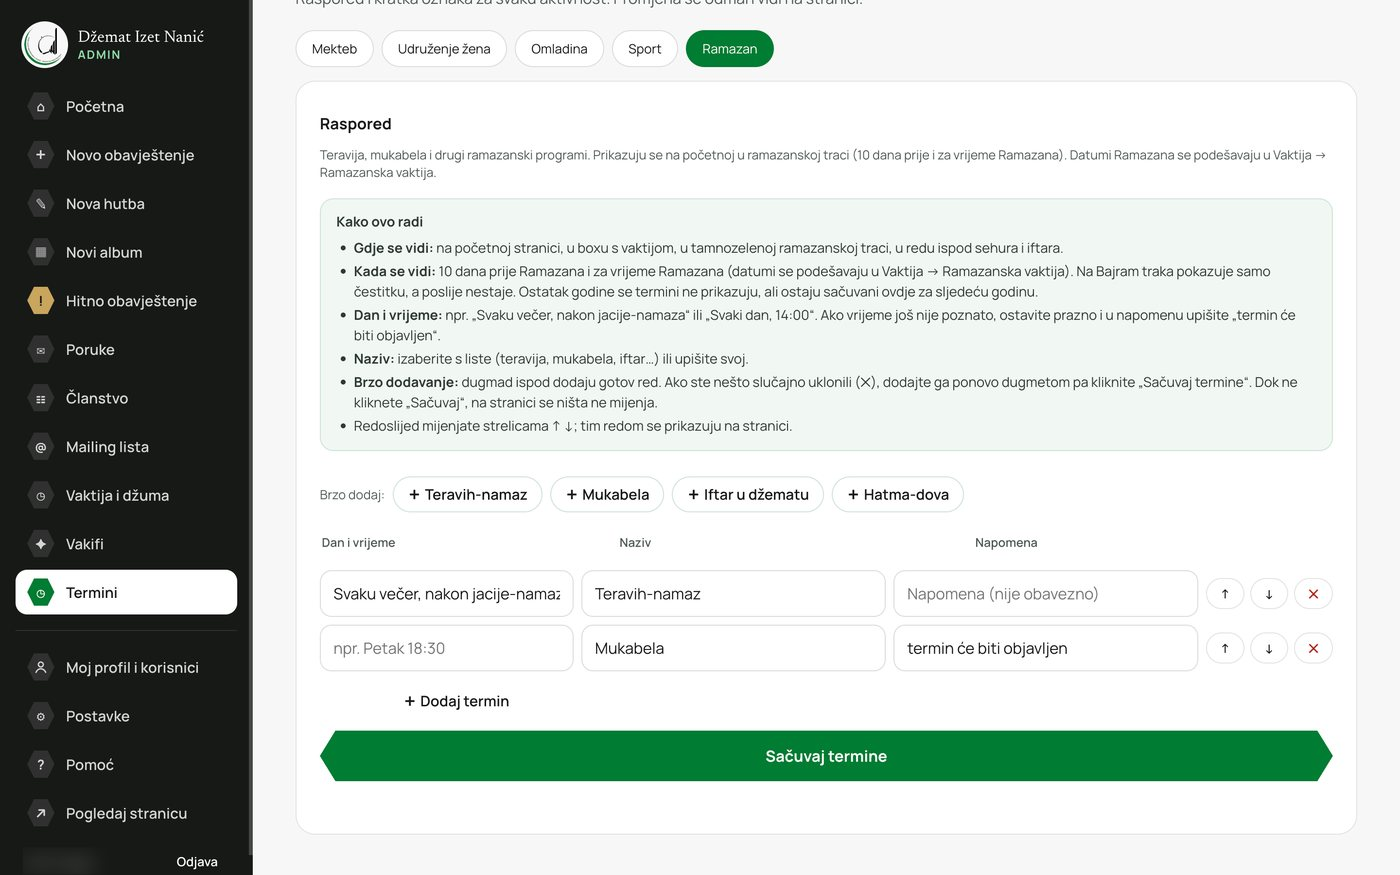
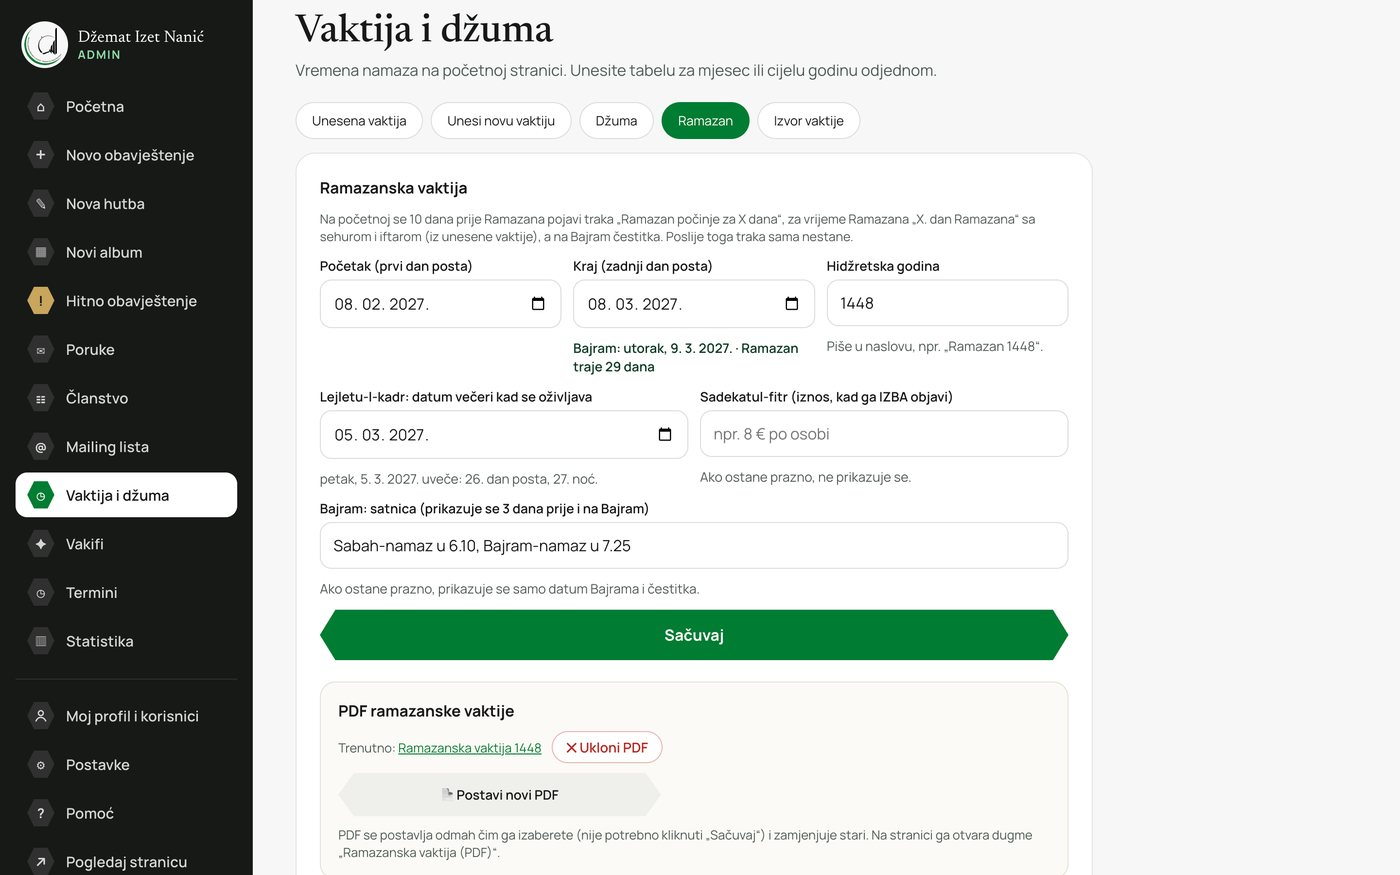
Džemati: statistics feature, new vaktija and Ramadan screenshots
Claude-Session: https://claude.ai/code/session_01TdyyJ7gY5KdEG8XDSg17po

diff --git a/public/en/dzemati/index.html b/public/en/dzemati/index.html
@@ -202,7 +202,7 @@
 <a class="link-arrow" href="https://dzematizetnanic.com/" target="_blank" rel="noopener">See it on the live site <svg width="16" height="16" viewBox="0 0 16 16" fill="none" aria-hidden="true"><path d="M3 8h10M9 4l4 4-4 4" stroke="currentColor" stroke-width="1.8" stroke-linecap="round" stroke-linejoin="round"/></svg></a>      </div>
       <div class="feature-shot">
         <div class="browser"><div class="browser-bar"><i></i><i></i><i></i><span>admin</span></div>
-          <img src="../../assets/img/dz/admin-vaktija.jpg" alt="Admin: importing prayer times from a PDF and Jumu’ah time" width="1400" height="875" loading="lazy"></div>
+          <img src="../../assets/img/dz/admin-vaktija.jpg" alt="Admin: importing prayer times from a PDF" width="1400" height="875" loading="lazy"></div>
       </div>
     </article>
     <article class="feature flip">
@@ -224,10 +224,21 @@
       </div>
       <div class="feature-shot">
         <div class="browser"><div class="browser-bar"><i></i><i></i><i></i><span>admin</span></div>
-          <img src="../../assets/img/dz/admin-ramazan.jpg" alt="Admin: Ramadan programme with taraweeh and mukabele" width="1400" height="875" loading="lazy"></div>
+          <img src="../../assets/img/dz/admin-ramazan.jpg" alt="Admin: Ramadan timetable, Eid and Laylat al-Qadr" width="1400" height="875" loading="lazy"></div>
       </div>
     </article>
     <article class="feature flip">
+      <div class="feature-copy">
+        <p class="tag">STATISTICS</p>
+        <h3>See who visits and what they read</h3>
+        <p class="muted">How many people visit and where they come from: WhatsApp, Facebook or Google. Which khutbahs and announcements are read most, how many people downloaded the prayer timetable and how many looked at membership. Everything is counted anonymously, with no cookies and no IP addresses.</p>
+      </div>
+      <div class="feature-shot">
+        <div class="browser"><div class="browser-bar"><i></i><i></i><i></i><span>admin</span></div>
+          <img src="../../assets/img/dz/admin-statistika.jpg" alt="Admin: website visitor statistics" width="1400" height="875" loading="lazy"></div>
+      </div>
+    </article>
+    <article class="feature">
       <div class="feature-copy">
         <p class="tag">USERS</p>
         <h3>Everyone on the committee has their own login</h3>
@@ -238,7 +249,7 @@
           <img src="../../assets/img/dz/admin-korisnici.jpg" alt="Admin: users and roles on the committee" width="1400" height="875" loading="lazy"></div>
       </div>
     </article>
-    <article class="feature">
+    <article class="feature flip">
       <div class="feature-copy">
         <p class="tag">INSTRUCTIONS</p>
         <h3>Instructions are built into the admin</h3>
@@ -281,6 +292,7 @@
     <div class="vt-row"><span><strong>Membership and mailing list</strong><small>Online applications, email notices, import of old lists</small></span><span class="vt-else" data-label="Elsewhere">€120–420 a year</span><span class="vt-us" data-label="With us"><svg width="18" height="18" viewBox="0 0 22 22" fill="none" aria-hidden="true"><circle cx="11" cy="11" r="11" fill="#E56821"/><path d="M6.5 11.2l3 3 6-6.4" stroke="#0A0A22" stroke-width="2" stroke-linecap="round" stroke-linejoin="round"/></svg>included</span></div>
     <div class="vt-row"><span><strong>Prayer times for the whole year</strong><small>Shown on the homepage, Jumu’ah time, and a yearly timetable PDF in your mosque’s design to download</small></span><span class="vt-else" data-label="Elsewhere">extra development</span><span class="vt-us" data-label="With us"><svg width="18" height="18" viewBox="0 0 22 22" fill="none" aria-hidden="true"><circle cx="11" cy="11" r="11" fill="#E56821"/><path d="M6.5 11.2l3 3 6-6.4" stroke="#0A0A22" stroke-width="2" stroke-linecap="round" stroke-linejoin="round"/></svg>included</span></div>
     <div class="vt-row"><span><strong>Ramadan timetable</strong><small>During Ramadan the timetable shows suhoor and iftar by itself, with a Ramadan timetable PDF</small></span><span class="vt-else" data-label="Elsewhere">extra design work</span><span class="vt-us" data-label="With us"><svg width="18" height="18" viewBox="0 0 22 22" fill="none" aria-hidden="true"><circle cx="11" cy="11" r="11" fill="#E56821"/><path d="M6.5 11.2l3 3 6-6.4" stroke="#0A0A22" stroke-width="2" stroke-linecap="round" stroke-linejoin="round"/></svg>included</span></div>
+    <div class="vt-row"><span><strong>Visitor statistics</strong><small>Visits, where people come from, most-read khutbahs and announcements, no cookies</small></span><span class="vt-else" data-label="Elsewhere">paid tools, from about €100 a year</span><span class="vt-us" data-label="With us"><svg width="18" height="18" viewBox="0 0 22 22" fill="none" aria-hidden="true"><circle cx="11" cy="11" r="11" fill="#E56821"/><path d="M6.5 11.2l3 3 6-6.4" stroke="#0A0A22" stroke-width="2" stroke-linecap="round" stroke-linejoin="round"/></svg>included</span></div>
     <div class="vt-row"><span><strong>Two languages</strong><small>Bosnian and the language of your country</small></span><span class="vt-else" data-label="Elsewhere">usually 20–30% on top</span><span class="vt-us" data-label="With us"><svg width="18" height="18" viewBox="0 0 22 22" fill="none" aria-hidden="true"><circle cx="11" cy="11" r="11" fill="#E56821"/><path d="M6.5 11.2l3 3 6-6.4" stroke="#0A0A22" stroke-width="2" stroke-linecap="round" stroke-linejoin="round"/></svg>included</span></div>
     <div class="vt-row"><span><strong>Moving the old site and training</strong><small>Content, photos, members, written guide</small></span><span class="vt-else" data-label="Elsewhere">€60–90 an hour</span><span class="vt-us" data-label="With us"><svg width="18" height="18" viewBox="0 0 22 22" fill="none" aria-hidden="true"><circle cx="11" cy="11" r="11" fill="#E56821"/><path d="M6.5 11.2l3 3 6-6.4" stroke="#0A0A22" stroke-width="2" stroke-linecap="round" stroke-linejoin="round"/></svg>included</span></div>
     <div class="vt-row"><span><strong>12-month guarantee</strong><small>We fix any bugs for free</small></span><span class="vt-else" data-label="Elsewhere">monthly maintenance</span><span class="vt-us" data-label="With us"><svg width="18" height="18" viewBox="0 0 22 22" fill="none" aria-hidden="true"><circle cx="11" cy="11" r="11" fill="#E56821"/><path d="M6.5 11.2l3 3 6-6.4" stroke="#0A0A22" stroke-width="2" stroke-linecap="round" stroke-linejoin="round"/></svg>included</span></div>

diff --git a/public/dzemati/index.html b/public/dzemati/index.html
@@ -204,7 +204,7 @@
 <a class="link-arrow" href="https://dzematizetnanic.com/" target="_blank" rel="noopener">Pogledajte na stranici džemata <svg width="16" height="16" viewBox="0 0 16 16" fill="none" aria-hidden="true"><path d="M3 8h10M9 4l4 4-4 4" stroke="currentColor" stroke-width="1.8" stroke-linecap="round" stroke-linejoin="round"/></svg></a>      </div>
       <div class="feature-shot">
         <div class="browser"><div class="browser-bar"><i></i><i></i><i></i><span>admin</span></div>
-          <img src="../assets/img/dz/admin-vaktija.jpg" alt="Admin: unos vaktije iz PDF-a i vrijeme džume" width="1400" height="875" loading="lazy"></div>
+          <img src="../assets/img/dz/admin-vaktija.jpg" alt="Admin: unos vaktije iz PDF-a" width="1400" height="875" loading="lazy"></div>
       </div>
     </article>
     <article class="feature flip">
@@ -226,10 +226,21 @@
       </div>
       <div class="feature-shot">
         <div class="browser"><div class="browser-bar"><i></i><i></i><i></i><span>admin</span></div>
-          <img src="../assets/img/dz/admin-ramazan.jpg" alt="Admin: ramazanski program s teravijom i mukabelom" width="1400" height="875" loading="lazy"></div>
+          <img src="../assets/img/dz/admin-ramazan.jpg" alt="Admin: ramazanska vaktija, Bajram i Lejletu-l-kadr" width="1400" height="875" loading="lazy"></div>
       </div>
     </article>
     <article class="feature flip">
+      <div class="feature-copy">
+        <p class="tag">STATISTIKA</p>
+        <h3>Vidite ko dolazi i šta čita</h3>
+        <p class="muted">Koliko ljudi posjećuje stranicu i odakle dolaze: WhatsApp, Facebook ili Google. Koje se hutbe i obavještenja najviše čitaju, koliko je ljudi preuzelo vaktiju i koliko ih gleda članarinu. Sve se broji anonimno, bez kolačića i bez IP adresa.</p>
+      </div>
+      <div class="feature-shot">
+        <div class="browser"><div class="browser-bar"><i></i><i></i><i></i><span>admin</span></div>
+          <img src="../assets/img/dz/admin-statistika.jpg" alt="Admin: statistika posjeta stranici" width="1400" height="875" loading="lazy"></div>
+      </div>
+    </article>
+    <article class="feature">
       <div class="feature-copy">
         <p class="tag">KORISNICI</p>
         <h3>Svako iz odbora ima svoj pristup</h3>
@@ -240,7 +251,7 @@
           <img src="../assets/img/dz/admin-korisnici.jpg" alt="Admin: korisnici i uloge u odboru" width="1400" height="875" loading="lazy"></div>
       </div>
     </article>
-    <article class="feature">
+    <article class="feature flip">
       <div class="feature-copy">
         <p class="tag">UPUTSTVA</p>
         <h3>Uputstva su u samom adminu</h3>
@@ -283,6 +294,7 @@
     <div class="vt-row"><span><strong>Članstvo i mailing lista</strong><small>Online prijave, e-mail obavještenja, uvoz starih lista</small></span><span class="vt-else" data-label="Drugdje">120–420 € godišnje</span><span class="vt-us" data-label="Kod nas"><svg width="18" height="18" viewBox="0 0 22 22" fill="none" aria-hidden="true"><circle cx="11" cy="11" r="11" fill="#E56821"/><path d="M6.5 11.2l3 3 6-6.4" stroke="#0A0A22" stroke-width="2" stroke-linecap="round" stroke-linejoin="round"/></svg>uključeno</span></div>
     <div class="vt-row"><span><strong>Vaktija za cijelu godinu</strong><small>Prikaz na početnoj, vrijeme džume i godišnja vaktija u PDF-u, u dizajnu džemata, za preuzimanje</small></span><span class="vt-else" data-label="Drugdje">uz dodatnu programersku izradu</span><span class="vt-us" data-label="Kod nas"><svg width="18" height="18" viewBox="0 0 22 22" fill="none" aria-hidden="true"><circle cx="11" cy="11" r="11" fill="#E56821"/><path d="M6.5 11.2l3 3 6-6.4" stroke="#0A0A22" stroke-width="2" stroke-linecap="round" stroke-linejoin="round"/></svg>uključeno</span></div>
     <div class="vt-row"><span><strong>Ramazanska vaktija</strong><small>Za vrijeme Ramazana vaktija sama prikazuje sehur i iftar, uz ramazansku vaktiju u PDF-u</small></span><span class="vt-else" data-label="Drugdje">uz dodatni dizajn</span><span class="vt-us" data-label="Kod nas"><svg width="18" height="18" viewBox="0 0 22 22" fill="none" aria-hidden="true"><circle cx="11" cy="11" r="11" fill="#E56821"/><path d="M6.5 11.2l3 3 6-6.4" stroke="#0A0A22" stroke-width="2" stroke-linecap="round" stroke-linejoin="round"/></svg>uključeno</span></div>
+    <div class="vt-row"><span><strong>Statistika posjeta</strong><small>Posjete, odakle ljudi dolaze, najčitanije hutbe i obavještenja, bez kolačića</small></span><span class="vt-else" data-label="Drugdje">plaćeni alati, od oko 100 € godišnje</span><span class="vt-us" data-label="Kod nas"><svg width="18" height="18" viewBox="0 0 22 22" fill="none" aria-hidden="true"><circle cx="11" cy="11" r="11" fill="#E56821"/><path d="M6.5 11.2l3 3 6-6.4" stroke="#0A0A22" stroke-width="2" stroke-linecap="round" stroke-linejoin="round"/></svg>uključeno</span></div>
     <div class="vt-row"><span><strong>Dva jezika</strong><small>Bosanski i jezik zemlje u kojoj živite</small></span><span class="vt-else" data-label="Drugdje">obično 20–30 % na cijenu</span><span class="vt-us" data-label="Kod nas"><svg width="18" height="18" viewBox="0 0 22 22" fill="none" aria-hidden="true"><circle cx="11" cy="11" r="11" fill="#E56821"/><path d="M6.5 11.2l3 3 6-6.4" stroke="#0A0A22" stroke-width="2" stroke-linecap="round" stroke-linejoin="round"/></svg>uključeno</span></div>
     <div class="vt-row"><span><strong>Prenos sa stare stranice i obuka odbora</strong><small>Sadržaj, fotografije, članovi, pisane upute</small></span><span class="vt-else" data-label="Drugdje">60–90 € po satu</span><span class="vt-us" data-label="Kod nas"><svg width="18" height="18" viewBox="0 0 22 22" fill="none" aria-hidden="true"><circle cx="11" cy="11" r="11" fill="#E56821"/><path d="M6.5 11.2l3 3 6-6.4" stroke="#0A0A22" stroke-width="2" stroke-linecap="round" stroke-linejoin="round"/></svg>uključeno</span></div>
     <div class="vt-row"><span><strong>12 mjeseci garancije</strong><small>Sve greške popravljamo besplatno</small></span><span class="vt-else" data-label="Drugdje">mjesečno održavanje</span><span class="vt-us" data-label="Kod nas"><svg width="18" height="18" viewBox="0 0 22 22" fill="none" aria-hidden="true"><circle cx="11" cy="11" r="11" fill="#E56821"/><path d="M6.5 11.2l3 3 6-6.4" stroke="#0A0A22" stroke-width="2" stroke-linecap="round" stroke-linejoin="round"/></svg>uključeno</span></div>

diff --git a/src/content_dzemati.py b/src/content_dzemati.py
@@ -102,7 +102,7 @@ BS = {'lang': 'bs',
                   'stranicu, e-mailom pretplatnicima i kao gotov tekst za WhatsApp kanal.',
              'link': 'https://dzematizetnanic.com/hutbe.html'},
             {'img': 'admin-vaktija',
-             'alt': 'Admin: unos vaktije iz PDF-a i vrijeme džume',
+             'alt': 'Admin: unos vaktije iz PDF-a',
              'tag': 'VAKTIJA I DŽUMA',
              't': 'Vaktija za cijelu godinu odjednom',
              's': 'Učitate PDF vaktije ili zalijepite tabelu s islam.ba, i vremena namaza su na početnoj '
@@ -117,13 +117,21 @@ BS = {'lang': 'bs',
                   'koji odredite.',
              'link': ''},
             {'img': 'admin-ramazan',
-             'alt': 'Admin: ramazanski program s teravijom i mukabelom',
+             'alt': 'Admin: ramazanska vaktija, Bajram i Lejletu-l-kadr',
              'tag': 'RAMAZAN',
              't': 'Ramazan na stranici, sam od sebe',
              's': 'Unesete prvi i zadnji dan posta. Deset dana prije Ramazana na početnoj se pojavi traka s '
                   'odbrojavanjem, za vrijeme Ramazana pokazuje sehur i iftar za taj dan, a na Bajram '
                   'čestitku i satnicu bajram-namaza. Teraviju, mukabelu i iftar u džematu dodate jednim '
                   'klikom, a ramazanska vaktija se preuzima kao PDF.',
+             'link': ''},
+            {'img': 'admin-statistika',
+             'alt': 'Admin: statistika posjeta stranici',
+             'tag': 'STATISTIKA',
+             't': 'Vidite ko dolazi i šta čita',
+             's': 'Koliko ljudi posjećuje stranicu i odakle dolaze: WhatsApp, Facebook ili Google. Koje se '
+                  'hutbe i obavještenja najviše čitaju, koliko je ljudi preuzelo vaktiju i koliko ih gleda '
+                  'članarinu. Sve se broji anonimno, bez kolačića i bez IP adresa.',
              'link': ''},
             {'img': 'admin-korisnici',
              'alt': 'Admin: korisnici i uloge u odboru',
@@ -195,6 +203,10 @@ BS = {'lang': 'bs',
                 's': 'Za vrijeme Ramazana vaktija sama prikazuje sehur i iftar, uz ramazansku vaktiju u '
                      'PDF-u',
                 'b': 'uz dodatni dizajn',
+                'c': 'uključeno'},
+               {'t': 'Statistika posjeta',
+                's': 'Posjete, odakle ljudi dolaze, najčitanije hutbe i obavještenja, bez kolačića',
+                'b': 'plaćeni alati, od oko 100 € godišnje',
                 'c': 'uključeno'},
                {'t': 'Dva jezika',
                 's': 'Bosanski i jezik zemlje u kojoj živite',
@@ -360,7 +372,7 @@ EN = {'lang': 'en',
                   'emails it to subscribers and prepares a ready-made text for your WhatsApp channel.',
              'link': 'https://dzematizetnanic.com/hutbe.html'},
             {'img': 'admin-vaktija',
-             'alt': 'Admin: importing prayer times from a PDF and Jumu’ah time',
+             'alt': 'Admin: importing prayer times from a PDF',
              'tag': 'PRAYER TIMES AND JUMU’AH',
              't': 'Prayer times for the whole year at once',
              's': 'Upload the timetable PDF or paste the table, and the daily prayer times appear on the '
@@ -375,13 +387,22 @@ EN = {'lang': 'en',
                   'the date you set.',
              'link': ''},
             {'img': 'admin-ramazan',
-             'alt': 'Admin: Ramadan programme with taraweeh and mukabele',
+             'alt': 'Admin: Ramadan timetable, Eid and Laylat al-Qadr',
              'tag': 'RAMADAN',
              't': 'Ramadan on the site, by itself',
              's': 'Enter the first and last day of fasting. Ten days before Ramadan a countdown strip '
                   'appears on the homepage, during Ramadan it shows that day’s suhoor and iftar, and on Eid '
                   'a greeting with the Eid prayer times. Taraweeh, mukabele and community iftars are added '
                   'with one click, and the Ramadan timetable can be downloaded as a PDF.',
+             'link': ''},
+            {'img': 'admin-statistika',
+             'alt': 'Admin: website visitor statistics',
+             'tag': 'STATISTICS',
+             't': 'See who visits and what they read',
+             's': 'How many people visit and where they come from: WhatsApp, Facebook or Google. Which '
+                  'khutbahs and announcements are read most, how many people downloaded the prayer timetable '
+                  'and how many looked at membership. Everything is counted anonymously, with no cookies and '
+                  'no IP addresses.',
              'link': ''},
             {'img': 'admin-korisnici',
              'alt': 'Admin: users and roles on the committee',
@@ -457,6 +478,10 @@ EN = {'lang': 'en',
                 's': 'During Ramadan the timetable shows suhoor and iftar by itself, with a Ramadan '
                      'timetable PDF',
                 'b': 'extra design work',
+                'c': 'included'},
+               {'t': 'Visitor statistics',
+                's': 'Visits, where people come from, most-read khutbahs and announcements, no cookies',
+                'b': 'paid tools, from about €100 a year',
                 'c': 'included'},
                {'t': 'Two languages',
                 's': 'Bosnian and the language of your country',
